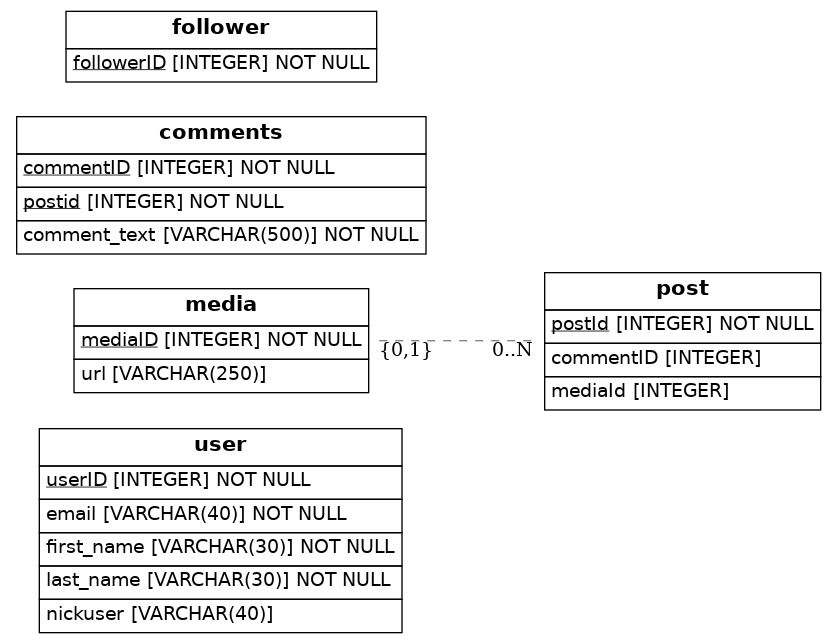
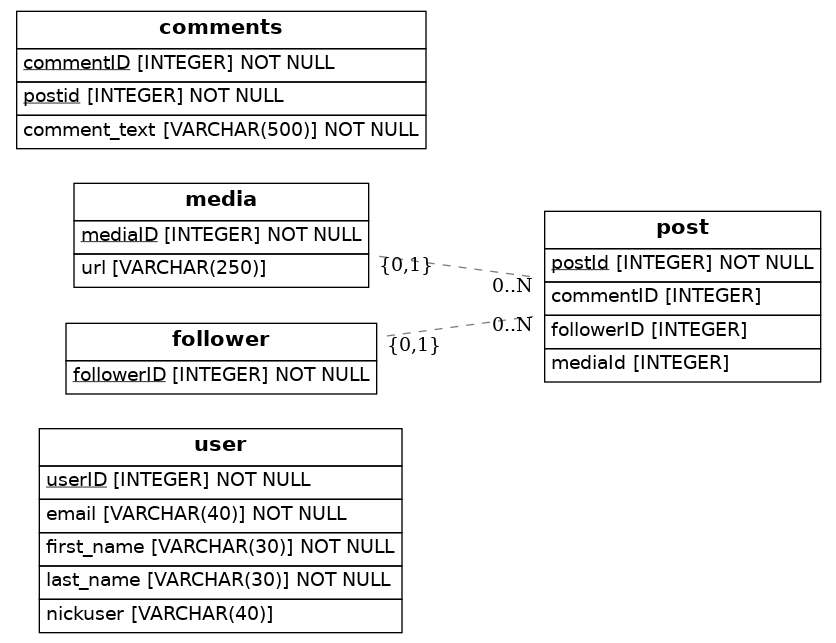
relacion1

diff --git a/src/models.py b/src/models.py
@@ -33,7 +33,8 @@ class Comment (Base):
 class Post(Base):
     __tablename__ = 'post'
     mediaId = Column(Integer, ForeignKey('media.mediaID'))
-    commentID = Column (Integer, ForeignKey('comment. commentID'))              
+    commentID = Column (Integer, ForeignKey('comment. commentID'))   
+    followerID = Column (Integer, ForeignKey('follower. followerID'))              
     postId = Column(Integer, primary_key=True)
     comment = relationship('commment')
     media = relationship('media')
@@ -43,7 +44,6 @@ class Post(Base):
 
 class Follower(Base):
     __tablename__ = 'follower'
-
     followerID = Column(Integer, primary_key=True)
     userID = relationship('User')
     post = relationship('post')
